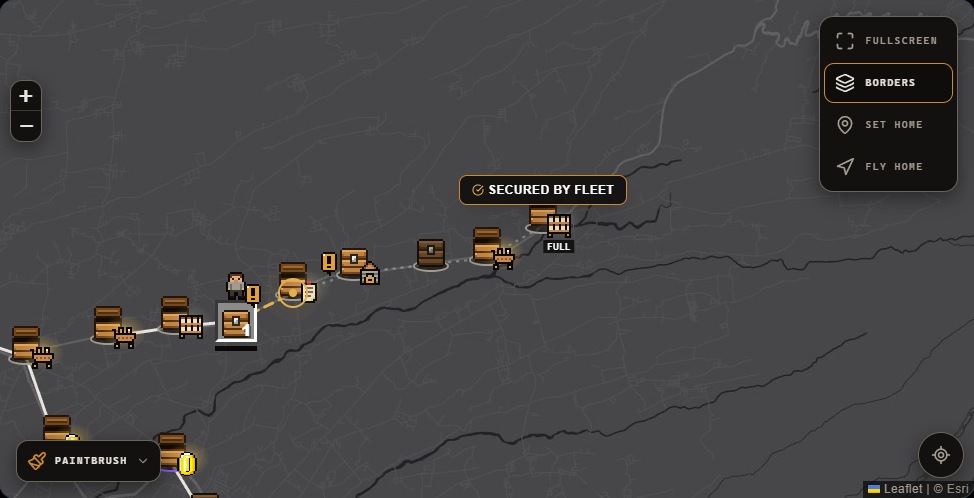
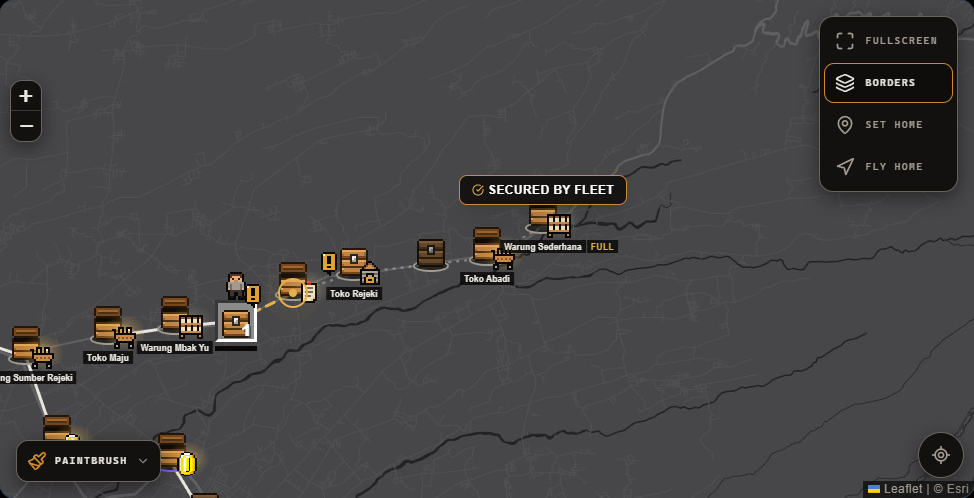
Journey map round 4-5 built: names always on (kpm 977dd08), Global Fleet filter out + shop search on both maps (kpm 517c0c5)
Taste: identity always on, detail on demand; one job one control; a tool on one map belongs on both (his words).
Probes: sign-hold re-run with name checks 14/14; shop-search real typing at 1440 and 390, off-round message unchecked.

diff --git a/Brainstorm/2026-10-04_visit-signs.md b/Brainstorm/2026-10-04_visit-signs.md
@@ -104,6 +104,42 @@ Found on the way, NOT caused by this: `test-journey.mjs` "Selling moment: 4 froz
 before this change too (05:50 WIB, 2026-10-05). Cause not found; [guessing] the lab's sale times vs the early-morning clock.
 The other 48 pass.
 
+## Round 4 - the shop's name always, the status on demand (his 2026-10-05 07:10) - BUILT kpm `977dd08`
+
+His words: *"the description status is hidden for the store but keep the store name visible"* and, asked nothing,
+*"right now it is hidden and showed only when hovered"* (the name lived only in the PC hover tooltip; the phone had none).
+
+| Call | Picked (my default, his to change) | Why |
+|---|---|---|
+| Where the name sits | under the chest, below the sign's foot, name-tag style | the word's old row; the owner tag "BS · 3" owns the top |
+| Where the status goes on hover / hold | joined to the name's right end, one strip, gold | his "stacking reads as clutter" (2026-09-28): never a second box |
+| Long names | end in "..." at 110 px | the popup has the whole name |
+| Crowded names | hidden while they would sit on another name, tag, man, bubble or chest; zoom in brings them back; hover / hold shows one anyway | Expedition's own rule for shop names, which he already lives with |
+
+Measured (probe-hold.mjs, 14/14): 19 of 28 names shown at 1440 and only **2 of 8 at 390** at the probe's zoom - on the phone
+most names wait for a zoom-in. That is the cost he has not priced; if he says "all names", the next lever is a smaller
+name or a zoom threshold, not overlap.
+
+## Round 5 - Mission Feed: the Global Fleet filter out, a shop search in, on both maps (his 2026-10-05 07:30) - BUILT kpm `517c0c5`
+
+His words: *"and also we need to redesign this a little, global filter is useless since we have the expedition panel now
+right and we need to add searching box for store name to show the location we also need that on the regular map"*
+(screenshot: GLOBAL FLEET open, "<name>'s Bounties" rows).
+
+- The filter fed three things; all left with it: the "'s Bounties" list, "Global Fleet" in the header line, and an orange
+  dashed street route fetched from router.project-osrm.org for one salesman (the Expedition press draws his road now).
+  The big "18/32 secured" counter now always counts everyone; per salesman lives on his Expedition card.
+- "Find a Shop" sits in the filter's slot: part of a name + Enter, or a pick from the list -> the map flies there
+  (StoreFocus, zoom 16). Every shop is searchable, not only today's round: a shop off the round is shown where it is and
+  the box says no chest is drawn there (NOT checked - every lab shop visits daily).
+- Map System: the same box under "All Regions"; a pick presses the shop's pin (its card opens).
+- Native `<datalist>` for the suggestions (no new code to style or maintain); the browser's blue clear "x" made grey.
+- Found on the way: the Map System shop card's "Directions" button is blue (palette law) - not touched, not asked.
+
+Models applied: Chesterton's Fence (what the filter fed before deleting it - the street route and the counter),
+Second-Order (a crowded phone hides most names - stated, not hidden), Inversion (what makes a search lie: landing on
+"Toko Sinar Abadi" for "Toko Abadi" -> exact name first).
+
 ## Rejected on purpose
 
 - **A rival FLAG for Competitor** (in the brief): the red pixel flag already means "nobody's shop" on the same map

diff --git a/Wiki/Concepts/Aldi's Design Taste.md b/Wiki/Concepts/Aldi's Design Taste.md
@@ -3252,3 +3252,16 @@ the word), each at map size and zoomed, in a grey view, each acting out its word
   the clash, he picks the distinct shape (the object rule again, and the colour-blind rule from round 7). He answers only
   the part he cares about (the look); a rule question left unanswered is his "use your pick".
   [[../../Brainstorm/2026-10-04_visit-signs]]
+
+## The name stays, the detail waits - and a duplicate control goes (2026-10-05, 07:10 - 07:30)
+
+> *"the description status is hidden for the store but keep the store name visible"* · *"right now it is hidden and showed
+> only when hovered"* · *"global filter is useless since we have the expedition panel now right and we need to add searching
+> box for store name to show the location we also need that on the regular map"*
+
+- **Identity is always on; detail is on demand.** A shop's NAME earns a permanent label; its STATUS waits for hover / hold.
+  The same split as the sign object (always) and its word (on demand) the evening before.
+- **One job, one control.** Once the Expedition press did the Global Fleet filter's job, he called the filter useless and
+  wanted its space for something new. Two controls that do the same thing read as clutter to him.
+- **A tool on one map belongs on both.** He asked for the search on Journey AND the regular map in the same sentence.
+  [[../../Brainstorm/2026-10-04_visit-signs]] rounds 4-5
